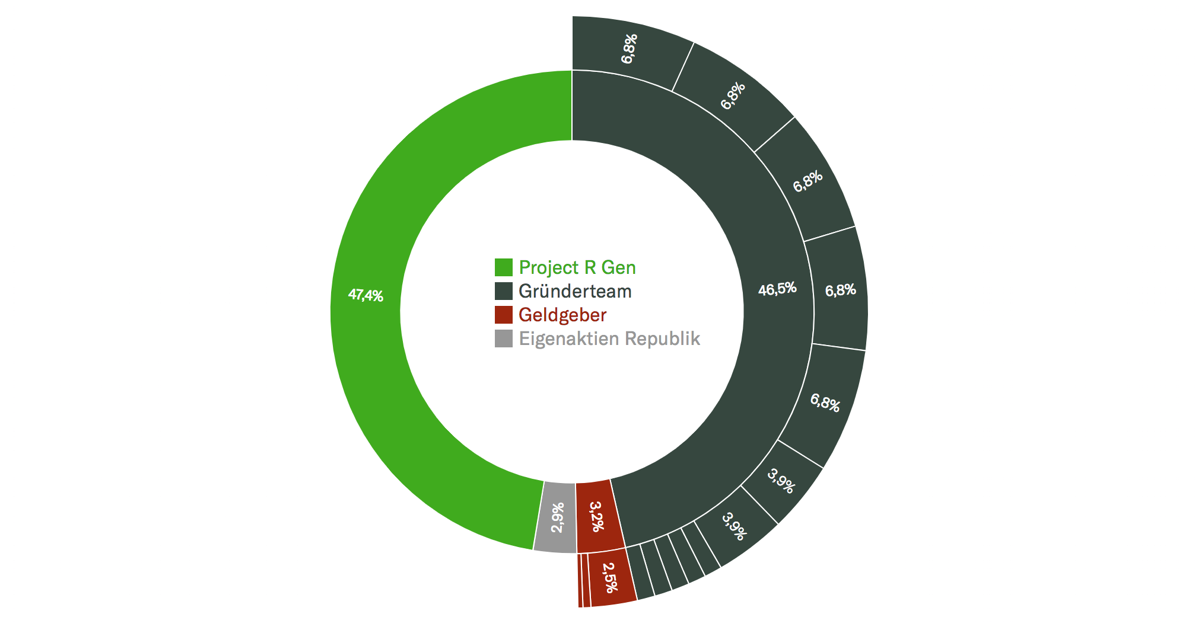
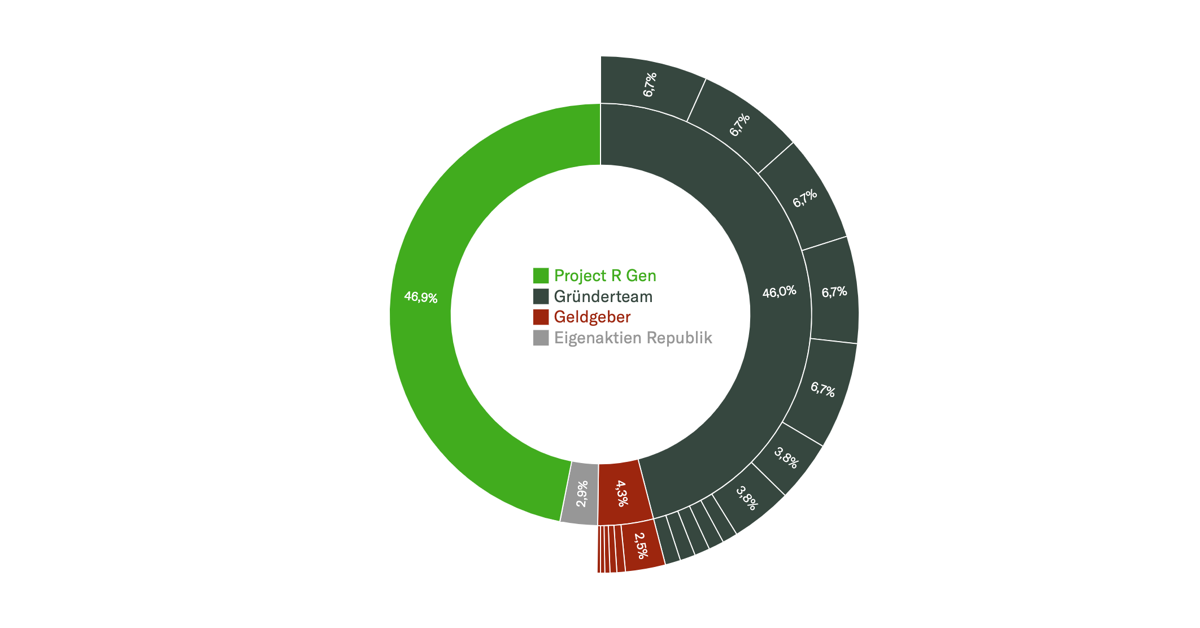
update shareholders

diff --git a/components/Shareholder/data.js b/components/Shareholder/data.js
@@ -112,6 +112,13 @@ const data = [
   },
   {
     Kategorie: 'Geldgeber',
+    Aktionärin: 'Adrian Gasser',
+    Typ: 'B',
+    'Nominal CHF': '0.40',
+    Anzahl: '5556'
+  },
+  {
+    Kategorie: 'Geldgeber',
     Aktionärin: 'Mettiss AG',
     Typ: 'B',
     'Nominal CHF': '0.40',
@@ -119,10 +126,24 @@ const data = [
   },
   {
     Kategorie: 'Geldgeber',
+    Aktionärin: 'Georg und Bertha Schwyzer-Winiker-Stiftung',
+    Typ: 'B',
+    'Nominal CHF': '0.40',
+    Anzahl: '3334'
+  },
+  {
+    Kategorie: 'Geldgeber',
     Aktionärin: 'Steff Fischer',
     Typ: 'B',
     'Nominal CHF': '0.40',
     Anzahl: '2778'
+  },
+  {
+    Kategorie: 'Geldgeber',
+    Aktionärin: 'Luzius Meisser',
+    Typ: 'B',
+    'Nominal CHF': '0.40',
+    Anzahl: '2223'
   }
 ]
 
